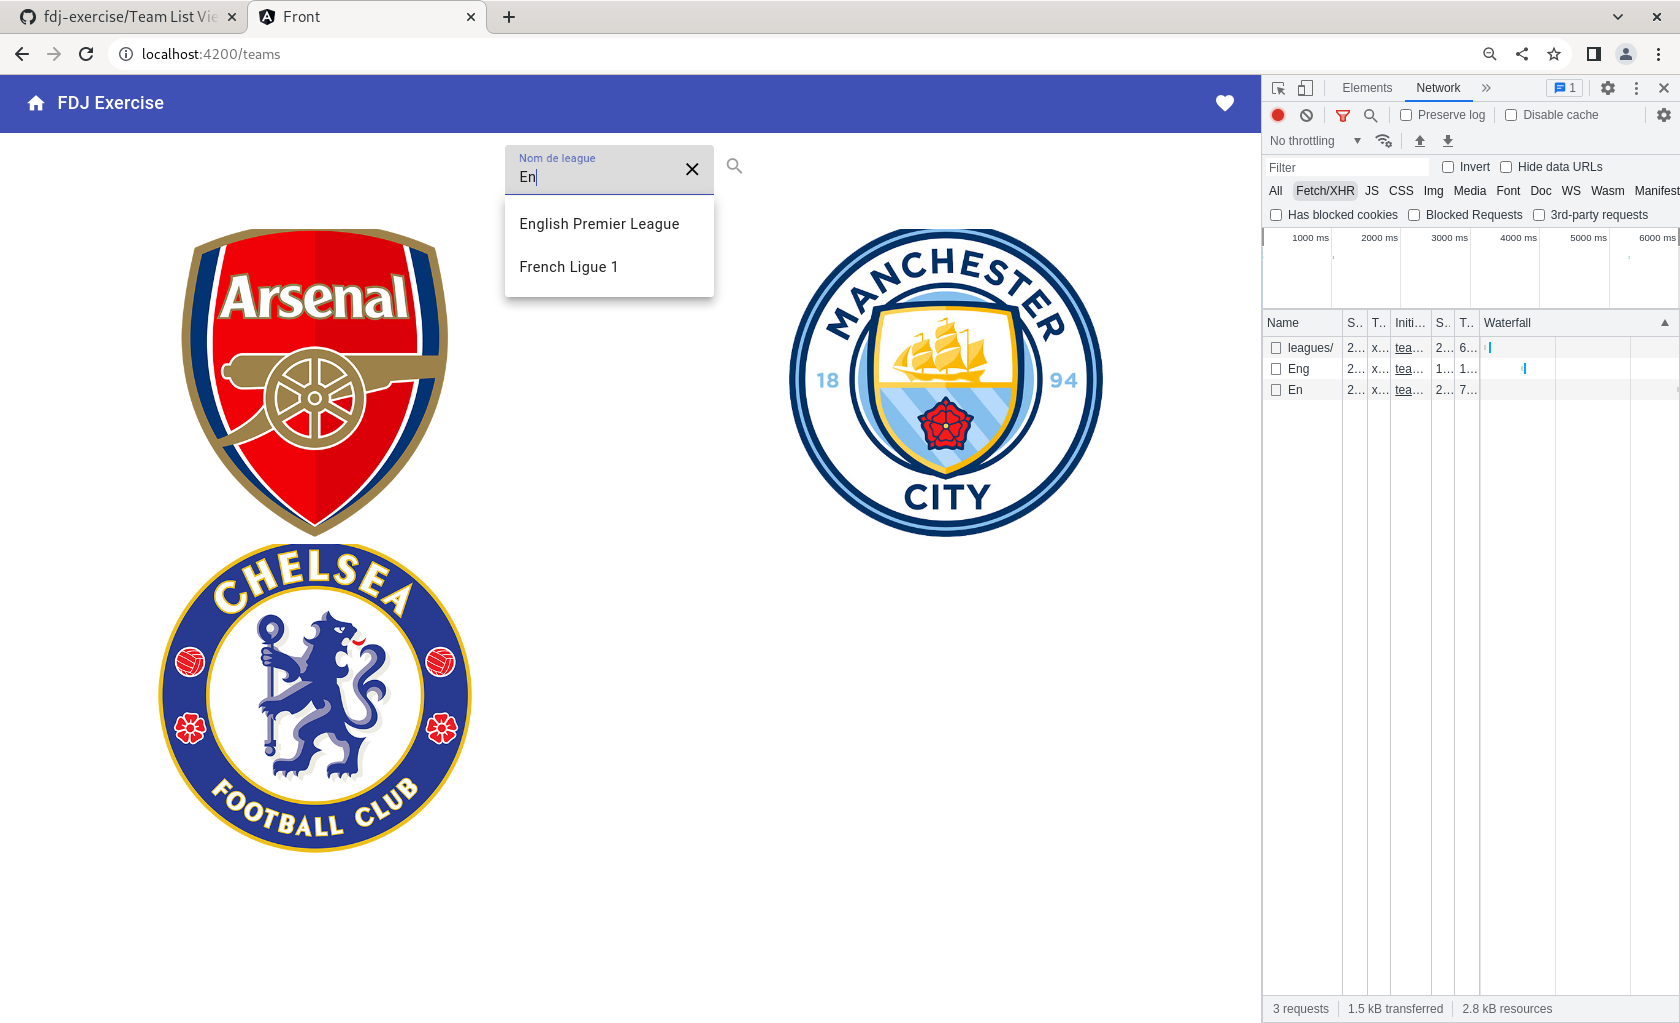
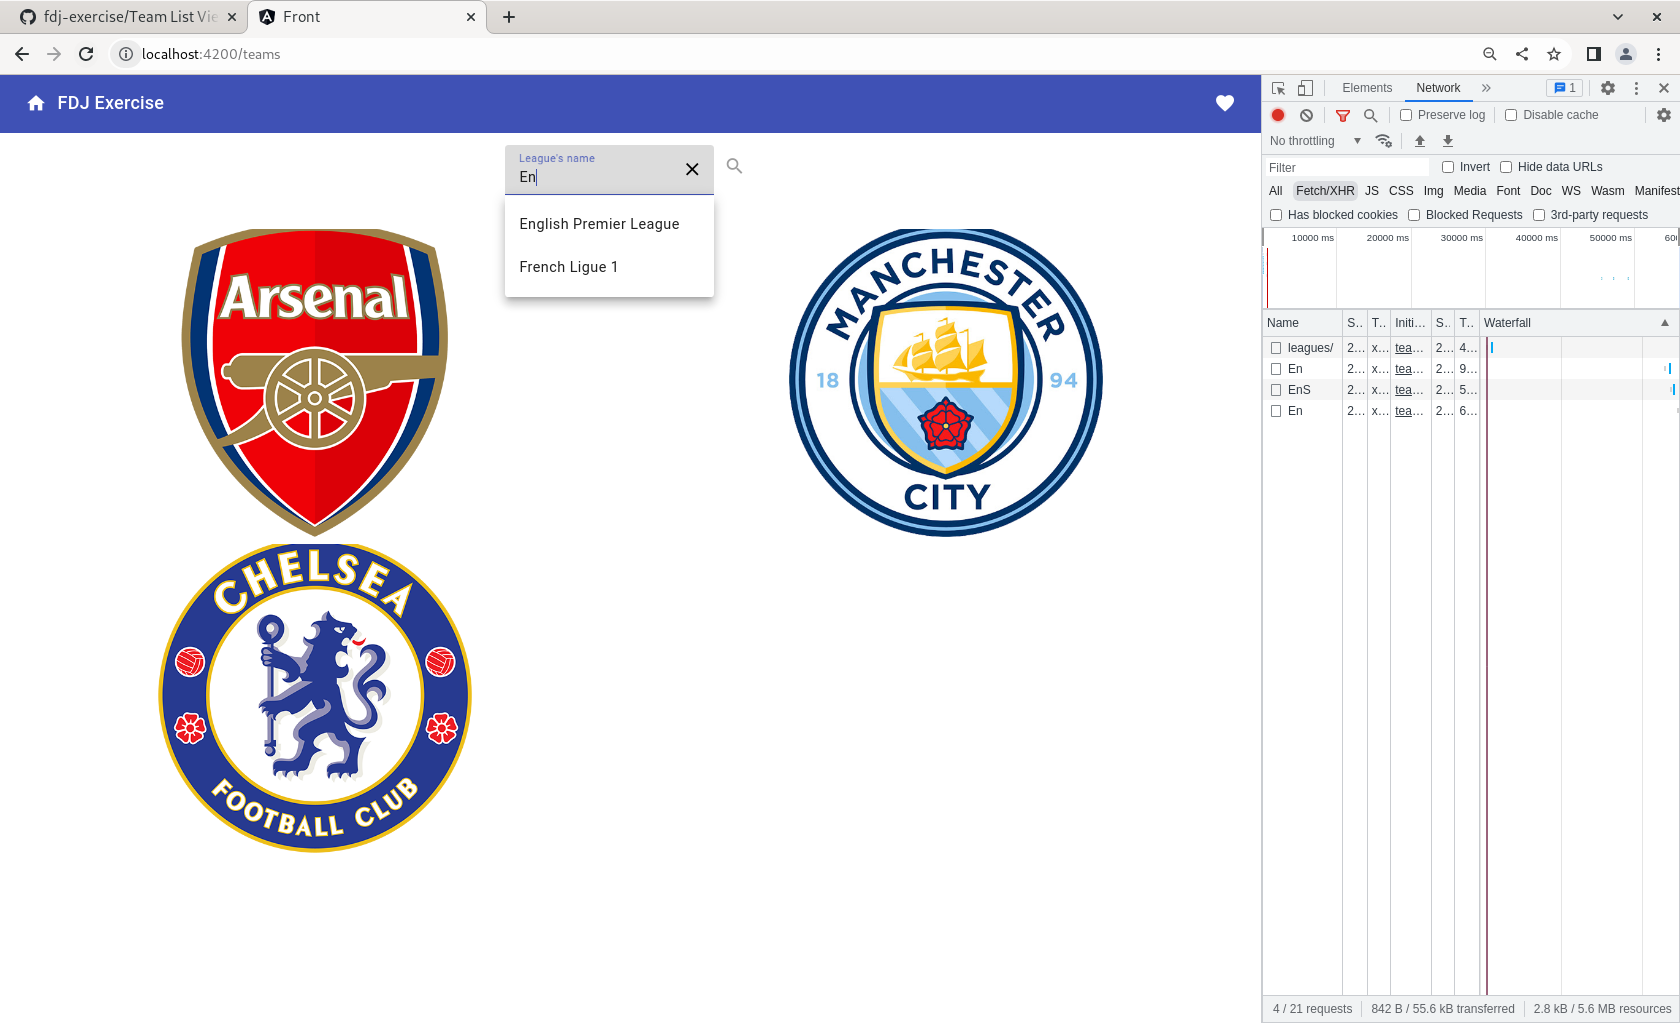
Fix wording

diff --git a/front/src/app/team-list-view/team-list-view.component.html b/front/src/app/team-list-view/team-list-view.component.html
@@ -11,10 +11,10 @@
           </mat-option>
         </mat-autocomplete>
 
-        <mat-label>Nom de league</mat-label>
+        <mat-label>League's name</mat-label>
 
         <input matInput type="text" [formControl]="searchTerm" [matAutocomplete]="auto">
-        <mat-hint *ngIf="leagues.length === 0">Aucun league trouve !</mat-hint>
+        <mat-hint *ngIf="leagues.length === 0">No team found !</mat-hint>
 
         <button *ngIf="searchTerm.value" matSuffix mat-icon-button aria-label="Clear" (click)="searchTerm.reset()">
           <mat-icon>close</mat-icon>
